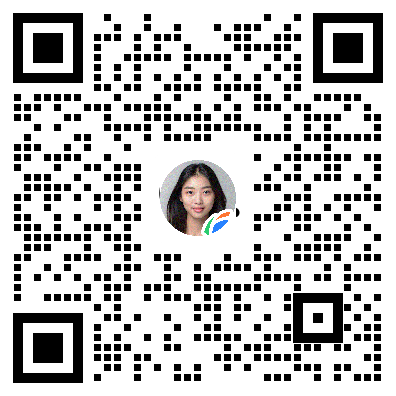
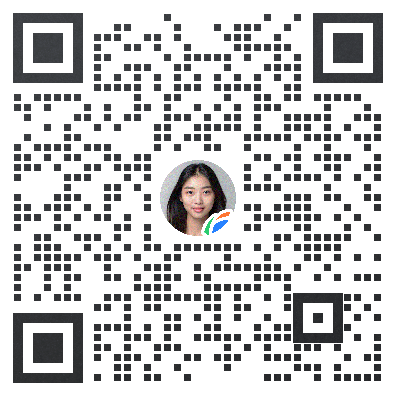
替换维双云站内企微二维码

Changed region(s): [[0.0303, 0.0303, 0.9697, 0.9697], [0.6667, 0.0303, 0.697, 0.0606]]

diff --git a/components/home/template-registration.tsx b/components/home/template-registration.tsx
@@ -61,7 +61,7 @@ export function TemplateRegistration() {
               <h3 className="mt-3 text-xl font-bold text-slate-900">选模板或开通有疑问？</h3>
               <p className="mx-auto mt-2 max-w-xl text-sm leading-6 text-slate-600">扫码添加客服，获取模板建议、套餐说明和上线协助。</p>
               <div className="mx-auto mt-6 max-w-[720px] overflow-hidden rounded-2xl border border-white bg-white p-3 shadow-lg shadow-blue-950/10">
-                <Image src="/home-service-qr.jpg" alt="客服二维码，扫码咨询详情" width={1030} height={576} className="h-auto w-full" />
+                <Image src="/contact-qr.png" alt="客服二维码，扫码咨询详情" width={480} height={480} className="mx-auto size-64 h-auto w-auto max-w-full" />
               </div>
               <p className="mt-3 text-center text-xs text-slate-500">工作日 9:30–18:00，周末请留言</p>
             </aside>

diff --git a/app/about/page.tsx b/app/about/page.tsx
@@ -212,11 +212,11 @@ export default function AboutPage() {
                 <p className="text-lg font-bold text-foreground">扫码添加企业微信</p>
                 <p className="mt-1 text-sm text-muted-foreground">添加专属顾问，获取产品咨询与解决方案</p>
                 <Image
-                  src="/home-service-qr.jpg"
+                  src="/contact-qr.png"
                   alt="维双云企业微信客服二维码"
-                  width={1030}
-                  height={415}
-                  className="mt-5 h-auto w-full"
+                  width={480}
+                  height={480}
+                  className="mx-auto mt-5 size-72 h-auto w-auto max-w-full"
                   priority
                 />
                 <p className="mt-4 text-xs text-muted-foreground">工作日 9:30–18:00，周末请留言，我们会尽快回复</p>
